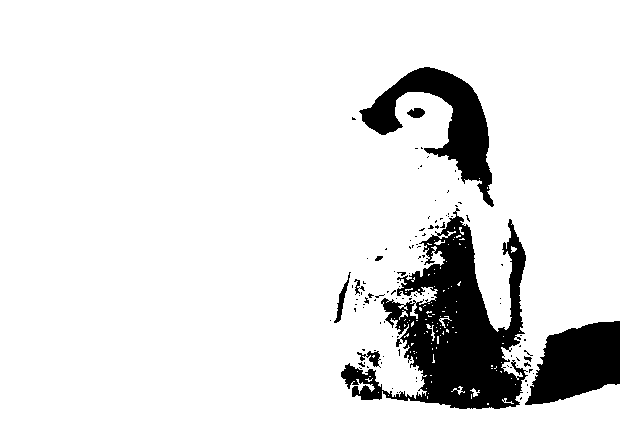
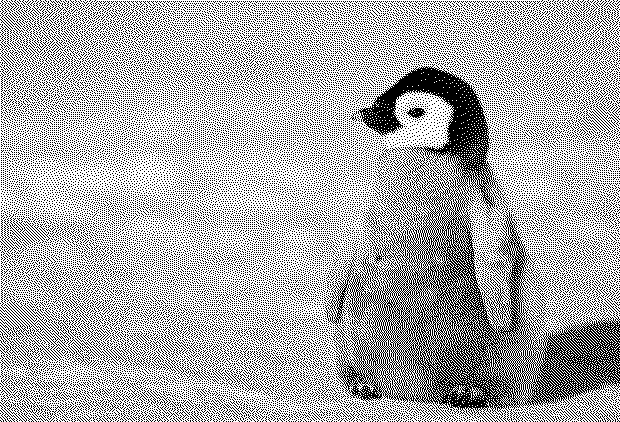
Commit for blog post

Changed region(s): [[0.0, 0.0, 1.0, 1.0]]

diff --git a/dither.go b/dither.go
@@ -28,11 +28,7 @@ func (dith ThresholdDitherer) apply(gray *image.Gray) *image.Gray {
 	)
 	for i := 0; i < width; i++ {
 		for j := 0; j < height; j++ {
-			if gray.GrayAt(i, j).Y > dith.threshold {
-				dithered.SetGray(i, j, color.Gray{255})
-			} else {
-				dithered.SetGray(i, j, color.Gray{0})
-			}
+			dithered.SetGray(i, j, blackOrWhite(gray.GrayAt(i, j)))
 		}
 	}
 	return dithered
@@ -49,7 +45,7 @@ type GridDitherer struct {
 func (dith GridDitherer) apply(gray *image.Gray) *image.Gray {
 	var (
 		bounds   = gray.Bounds()
-		dithered = colorWhite(image.NewGray(bounds))
+		dithered = newWhite(bounds)
 		width    = bounds.Dx()
 		height   = bounds.Dy()
 	)
@@ -57,17 +53,47 @@ func (dith GridDitherer) apply(gray *image.Gray) *image.Gray {
 		for j := 0; j < height; j += dith.k {
 			var (
 				cell = rgbaToGray(gray.SubImage(image.Rect(i, j, i+dith.k, j+dith.k)))
-				mu   = avgIntensity(cell)                                 // Mean grayscale value of the cell
-				n    = math.Pow(dith.beta-mu*dith.beta, 2)/3 - dith.alpha // Number of points to sample
+				mu   = avgIntensity(cell)                // Mean grayscale value of the cell
+				n    = math.Pow((1-mu)*dith.beta, 2) / 3 // Number of points to sample
 			)
+			if n < dith.alpha {
+				n = 0
+			}
 			for k := 0; k < int(n); k++ {
 				// Sample n random points in belonging to the cell
 				var (
 					x = randInt(i, min(i+dith.k, width), dith.rng)
 					y = randInt(j, min(j+dith.k, height), dith.rng)
 				)
-				dithered.Set(x, y, color.Gray{0})
+				dithered.SetGray(x, y, color.Gray{0})
 			}
+		}
+	}
+	return dithered
+}
+
+type FloydSteinbergDitherer struct{}
+
+func (dith FloydSteinbergDitherer) apply(gray *image.Gray) *image.Gray {
+	var (
+		bounds   = gray.Bounds()
+		width    = bounds.Dx()
+		height   = bounds.Dy()
+		dithered = copyGray(gray)
+	)
+	for j := 0; j < height; j++ { // Top to bottom
+		for i := 0; i < width; i++ { // Left to right
+			var oldPixel = dithered.GrayAt(i, j)
+			// Set the pixel to black or white
+			var newPixel = blackOrWhite(oldPixel)
+			dithered.SetGray(i, j, newPixel)
+			// Determine the quantization error
+			var quant = (int16(oldPixel.Y) - int16(newPixel.Y)) / 16
+			// Spread the quantization error
+			dithered.SetGray(i+1, j, color.Gray{i16ToUI8(int16(dithered.GrayAt(i+1, j).Y) + 7*quant)})
+			dithered.SetGray(i-1, j+1, color.Gray{i16ToUI8(int16(dithered.GrayAt(i-1, j+1).Y) + 3*quant)})
+			dithered.SetGray(i, j+1, color.Gray{i16ToUI8(int16(dithered.GrayAt(i, j+1).Y) + 5*quant)})
+			dithered.SetGray(i+1, j+1, color.Gray{i16ToUI8(int16(dithered.GrayAt(i+1, j+1).Y) + quant)})
 		}
 	}
 	return dithered

diff --git a/gray.go b/gray.go
@@ -1,6 +1,9 @@
 package main
 
-import "image"
+import (
+	"image"
+	"image/color"
+)
 
 // Create a new grayscale image from an rgba image.
 func rgbaToGray(img image.Image) *image.Gray {
@@ -18,7 +21,6 @@ func rgbaToGray(img image.Image) *image.Gray {
 }
 
 // Calculate the average intensity of a gray image.
-// TODO: make this faster
 func avgIntensity(gray *image.Gray) float64 {
 	var sum float64
 	for _, pix := range gray.Pix {
@@ -27,9 +29,23 @@ func avgIntensity(gray *image.Gray) float64 {
 	return sum / float64(len(gray.Pix)*256)
 }
 
-func colorWhite(gray *image.Gray) *image.Gray {
-	for i := range gray.Pix {
-		gray.Pix[i] = 255
+func newWhite(bounds image.Rectangle) *image.Gray {
+	var white = image.NewGray(bounds)
+	for i := range white.Pix {
+		white.Pix[i] = 255
 	}
-	return gray
+	return white
+}
+
+func blackOrWhite(g color.Gray) color.Gray {
+	if g.Y < 123 {
+		return color.Gray{0} // Black
+	}
+	return color.Gray{255} // White
+}
+
+func copyGray(gray *image.Gray) *image.Gray {
+	var clone = image.NewGray(gray.Bounds())
+	copy(clone.Pix, gray.Pix)
+	return clone
 }

diff --git a/main.go b/main.go
@@ -12,8 +12,9 @@ var rng = rand.New(rand.NewSource(time.Now().UnixNano()))
 func main() {
 	var img, _ = loadImage("penguin.jpg")
 	var gray = rgbaToGray(img)
-	var dithered = ThresholdDitherer{122}.apply(gray)
-	//var dithered = GridDitherer{5, 2, 8, rng}.apply(gray)
+	//var dithered = ThresholdDitherer{122}.apply(gray)
+	//var dithered = GridDitherer{5, 3, 8, rng}.apply(gray)
+	var dithered = FloydSteinbergDitherer{}.apply(gray)
 
 	// Save as out.png
 	f, _ := os.Create("out.png")

diff --git a/util.go b/util.go
@@ -31,3 +31,14 @@ func min(a, b int) int {
 	}
 	return a
 }
+
+// Convert a uint16 to a int8 taking into account bounds.
+func i16ToUI8(x int16) uint8 {
+	switch {
+	case x < 1:
+		return uint8(0)
+	case x > 254:
+		return uint8(255)
+	}
+	return uint8(x)
+}
